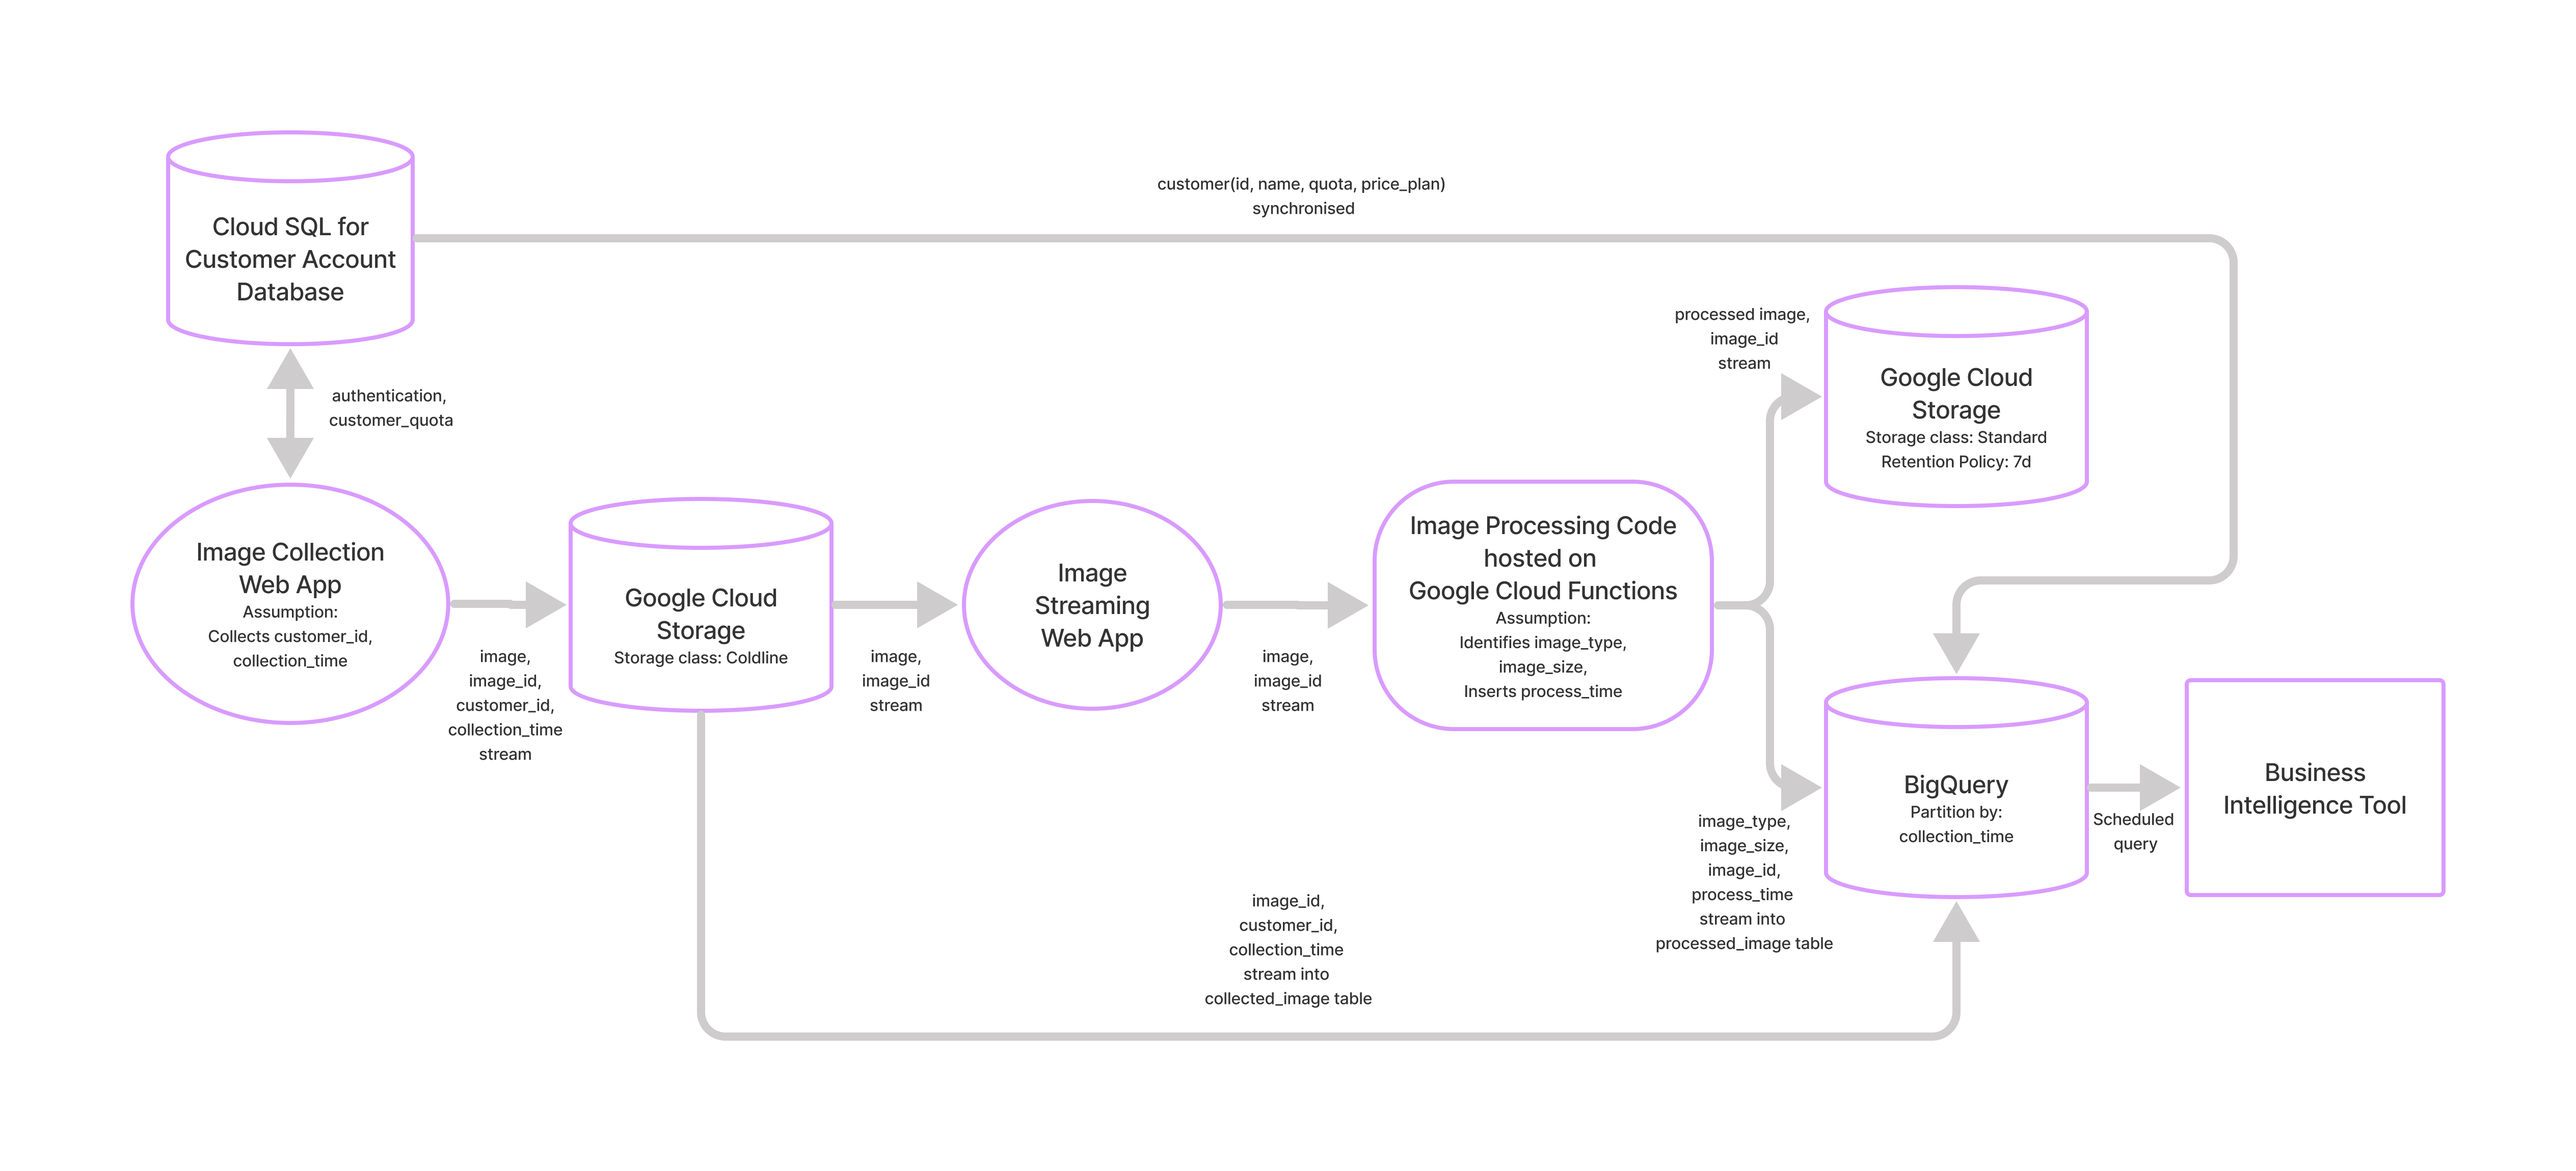
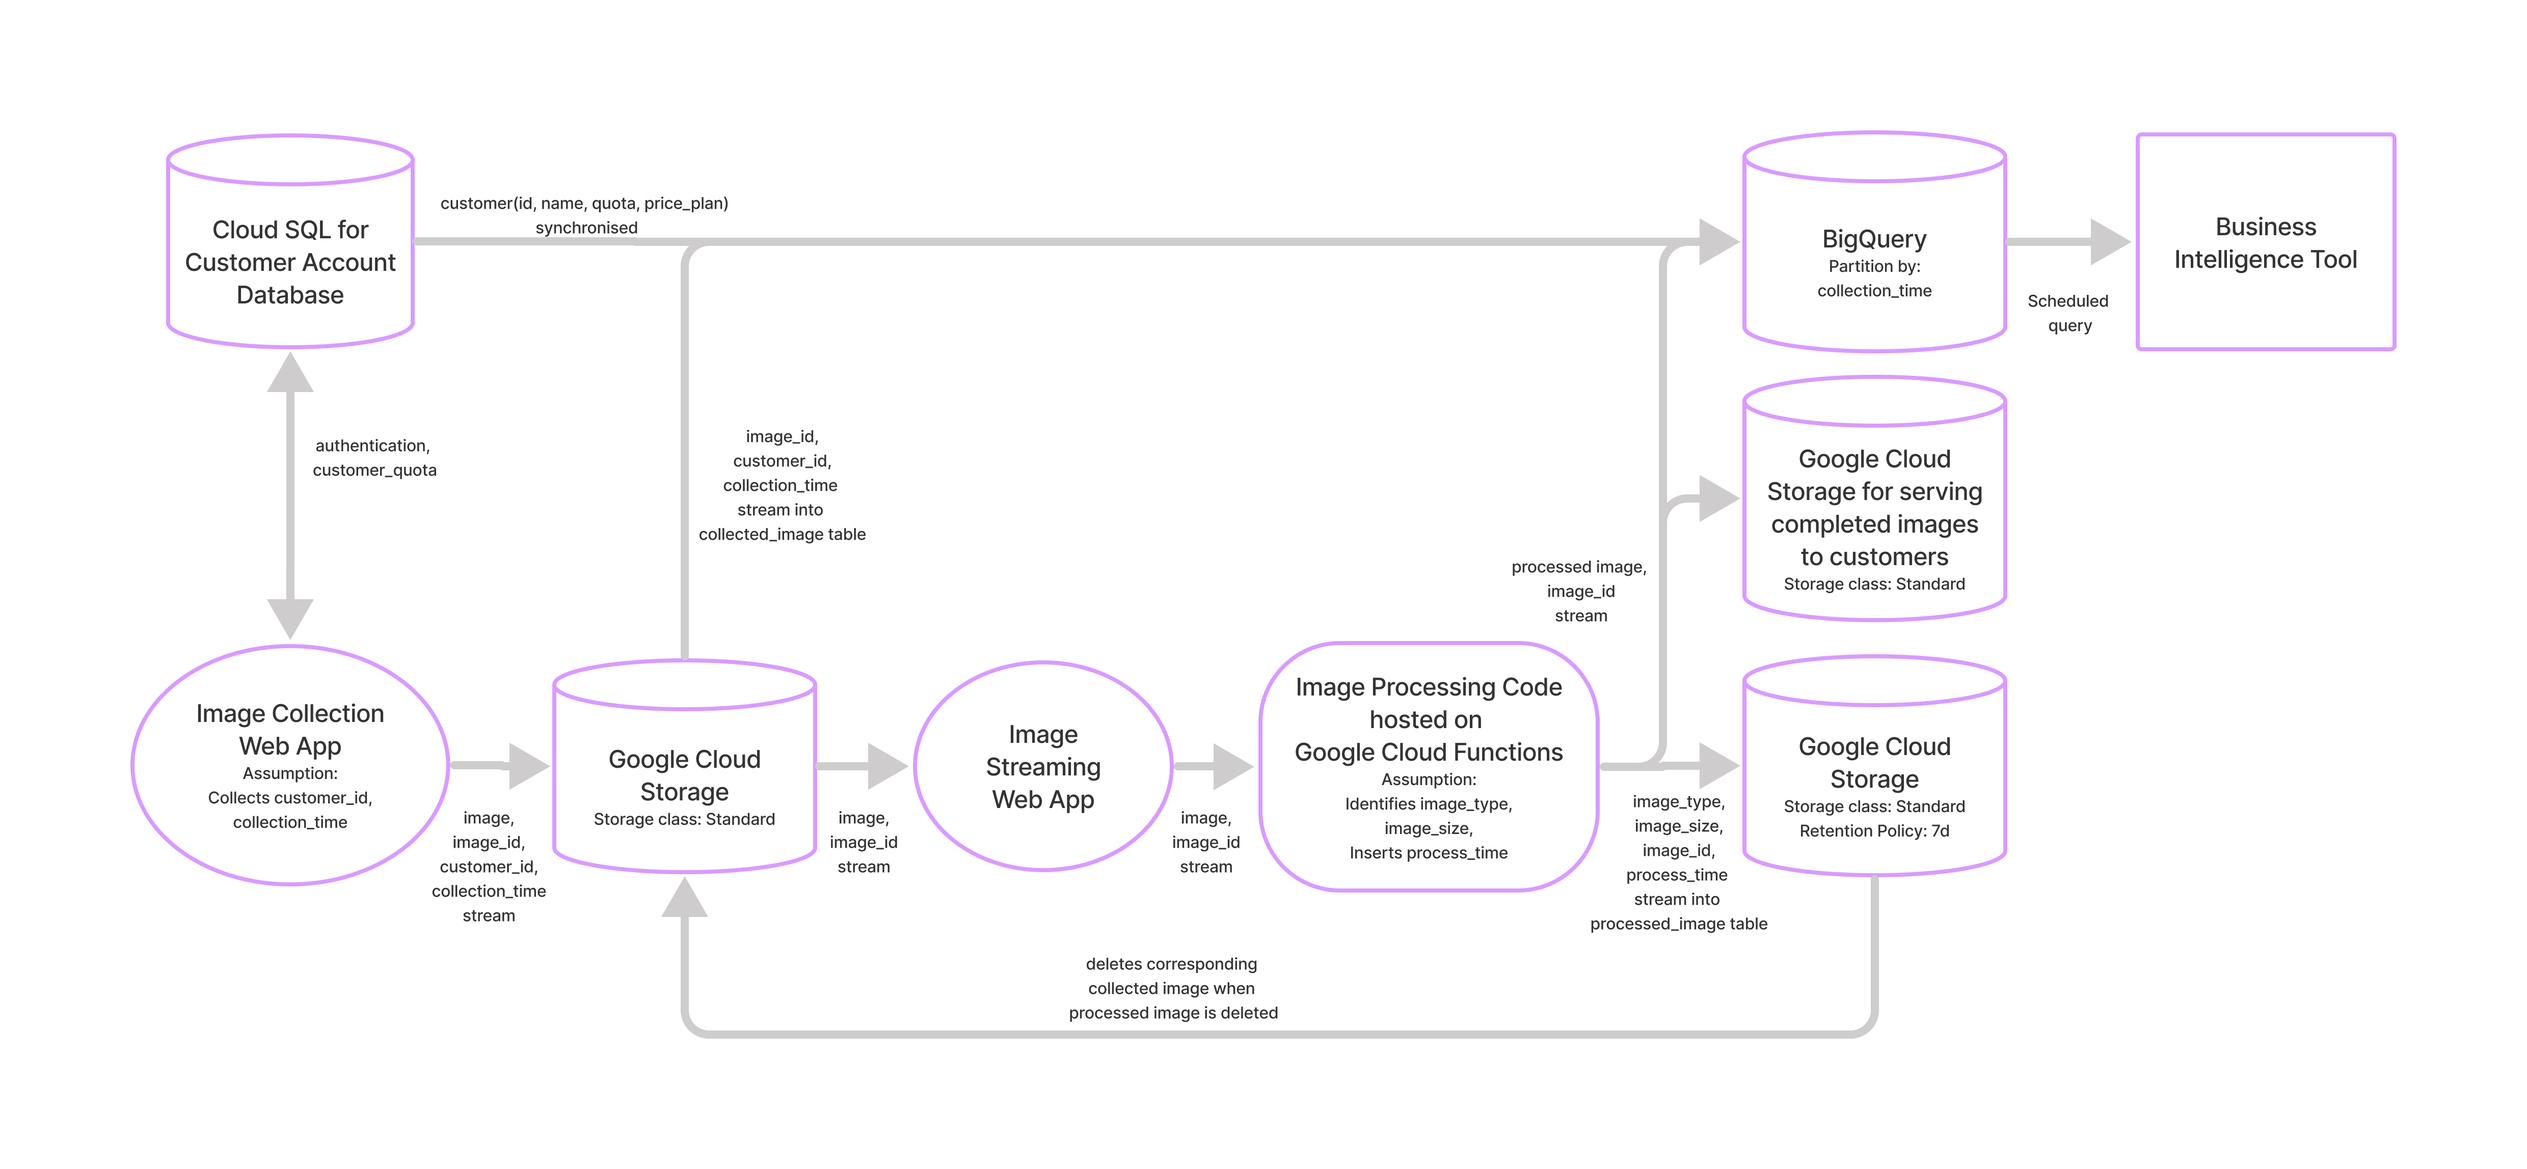
[Update] Adding design details and answer for Section 3

diff --git a/README.md b/README.md
@@ -24,7 +24,7 @@ e.g. `CSV_INPUT_PATH=/file/path/to/the/input/folder/`
 2. Set `CSV_OUTPUT_PATH` as the output location for the processed .csv files to be saved.
 3. After setting these two environment variables, set up and initiate Airflow.
 
-After setting up Airflow, Airflow's scheduler should recognise the cron statement in the DAG's `schedule_interval` parameter, running the DAG every 1:01am. When activated, the DAG iterates through each .csv file at the CSV_INPUT_PATH location and processes each of them. 
+After setting up Airflow, Airflow's scheduler should recognise the cron statement in the DAG's `schedule_interval` parameter, running the DAG every 1:01am. When activated, the DAG iterates through each .csv file at the `CSV_INPUT_PATH` location and processes each of them. 
 
 ### _What the DAG does_
 
@@ -39,6 +39,16 @@ For each .csv file, the DAG runs the following processes on the .csv's data:
 * Create a new field named `above_100`, which is true if the `price` is strictly greater than 100
 
 ## Section 2: Databases
+### _Database entity-relations_
+
+The database I will propose for car dealership will be constructed with the tables as per the ER diagram below, found under the folder of [/database_diagram](https://github.com/leontkh/DSAID/tree/master/database_diagram):
+
+<img src="database_diagram/ER_diagram.png"
+     alt="ER diagram for database"
+     style="float: left; margin-right: 10px;" />
+
+Sales transactions relate to a salesperson, a car and a customer and so is made into the central table that connects each of these information together. 
+
 ### _Database set-up_
 
 To begin setting up the database for the car dealership, run 
@@ -50,18 +60,10 @@ The DDL statements are included in `docker-compose.yml`
 To connect to the postgres_db container, open a new terminal and use
 > POSTGRES_CID=\`docker container ls| grep postgres_db| awk '{ print $1 }'\` && docker exec -it $POSTGRES_CID bash
 
-Then to connect into Postgres use
+Then to connect into Postgres from the postgres_db container, please use
 > psql -d postgres_db -U postgres_user
 
-Here you can run the following SQL statements after inserting in the data.
-
-### _Database entity-relations_
-
-The database will be constructed with the tables as per the ER diagram below, found under the folder of [/database_diagram](https://github.com/leontkh/DSAID/tree/master/database_diagram):
-
-<img src="database_diagram/ER_diagram.png"
-     alt="ER diagram for database"
-     style="float: left; margin-right: 10px;" />
+Here you can run the SQL statements in the next section after filling the tables with data.
 
 ### _SQL statements_
 SQL statements for the query task given:
@@ -106,25 +108,20 @@ DESC LIMIT 3;
 ## Section 3: System Design
 ### _Key files_
 
-Please find the image in the folder /system_design
+Please find the below system architecture diagram in the folder [/system_design](https://github.com/leontkh/DSAID/tree/master/system_design):
 
 <img src="system_design/system_design.png"
      alt="System Design for Image Processing"
      style="float: left; margin-right: 10px;" />
 
+Assumptions made:
+*
+*
+*
+
 *Text explaining logic behind diagram*
 
 ## Section 4: Charts and APIs
-### Question
-
-Your team decided to design a dashboard to display the statistic of COVID19 cases. You are tasked to display one of the components of the dashboard which is to display a visualisation representation of number of COVID19 cases in Singapore over time.
-
-Your team decided to use the public data from https://documenter.getpostman.com/view/10808728/SzS8rjbc#b07f97ba-24f4-4ebe-ad71-97fa35f3b683.
-
-Display a graph to show the number cases in Singapore over time using the APIs from https://covid19api.com/.
-
-### Solution
-
 Please find the associated code and image in /sg_covid_cases
 
 <img src="sg_covid_cases/sg_covid_cases.png"
@@ -134,14 +131,6 @@ Please find the associated code and image in /sg_covid_cases
 *Text explaining logic behind diagram, especially where data is NA*
 
 ## Section 5: Machine Learning
-### Question
-
-Using the dataset from https://archive.ics.uci.edu/ml/datasets/Car+Evaluation, create a machine learning model to predict the buying price given the following parameters:
-
-Maintenance = High Number of doors = 4 Lug Boot Size = Big Safety = High Class Value = Good
-
-### Solution
-
 Please find the the model pickle file (trained_model.pkl) and prediction image (prediction.png) in the folder /classifier_model. The encoder pickle file (encoder.pkl) will be necessary in processing the inputs to the model. The .ipynb file shows the steps used to train the model.
 
 <img src="classifier_model/prediction.png"
